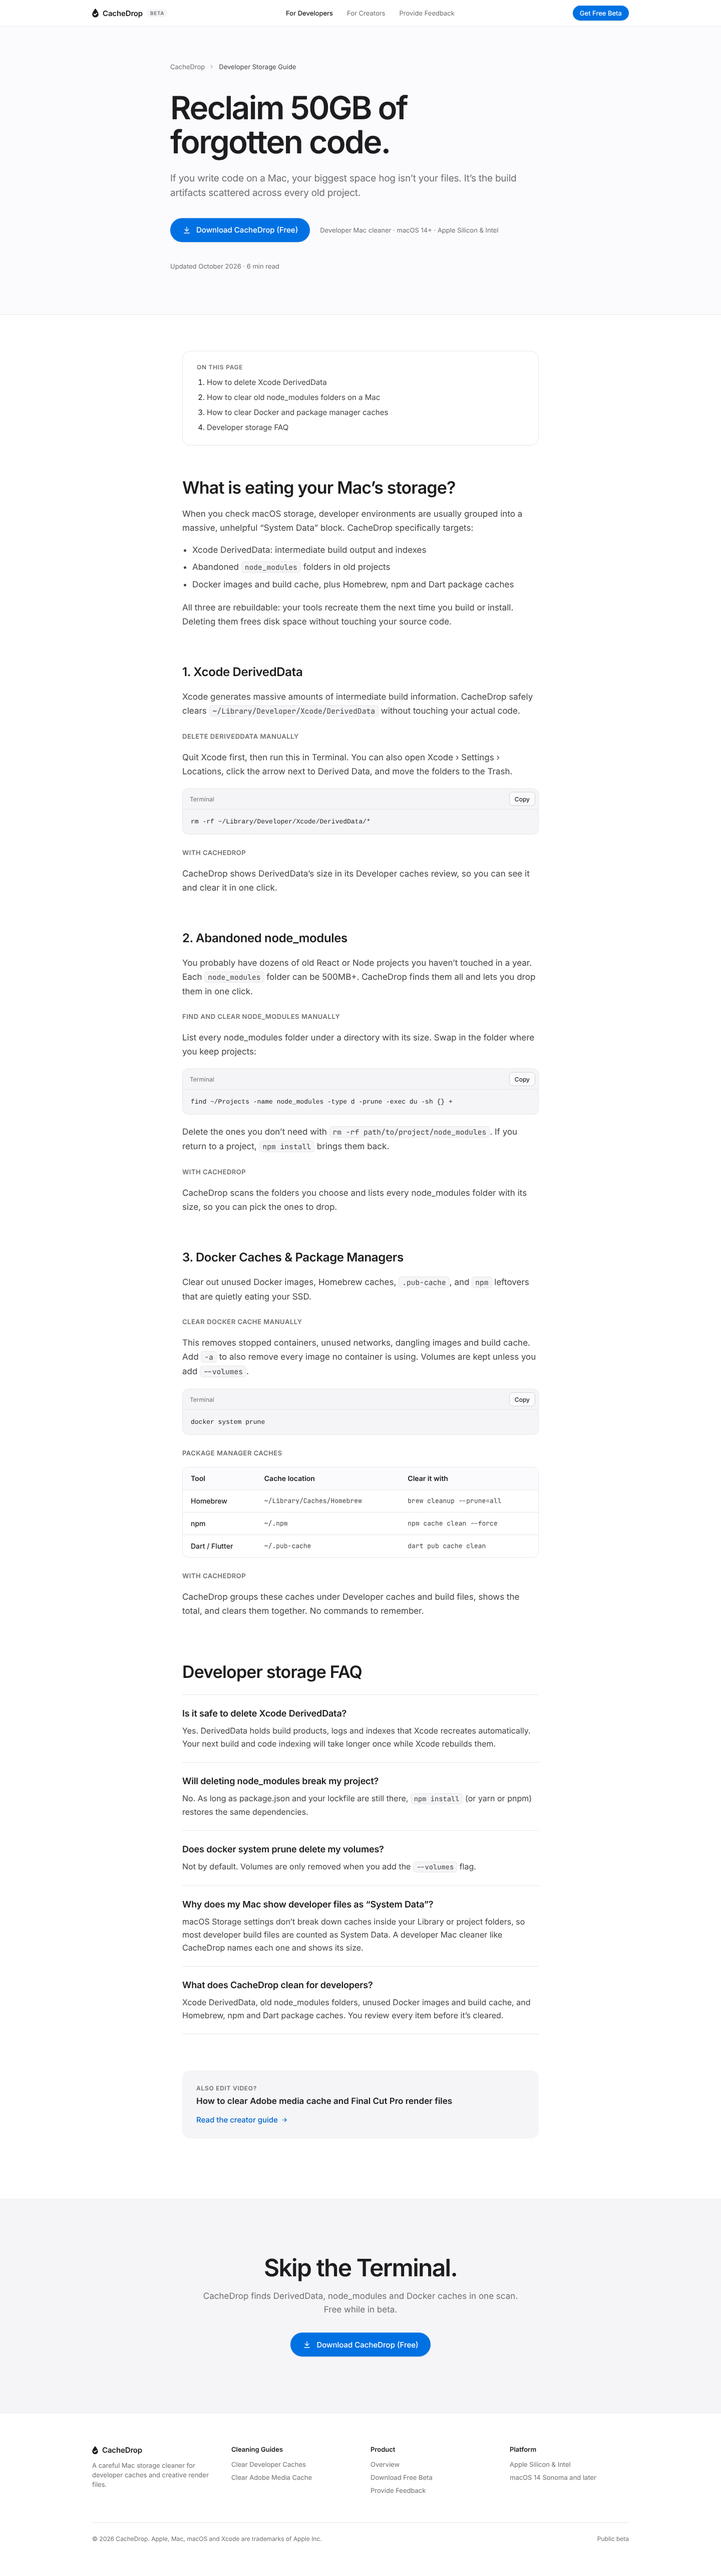
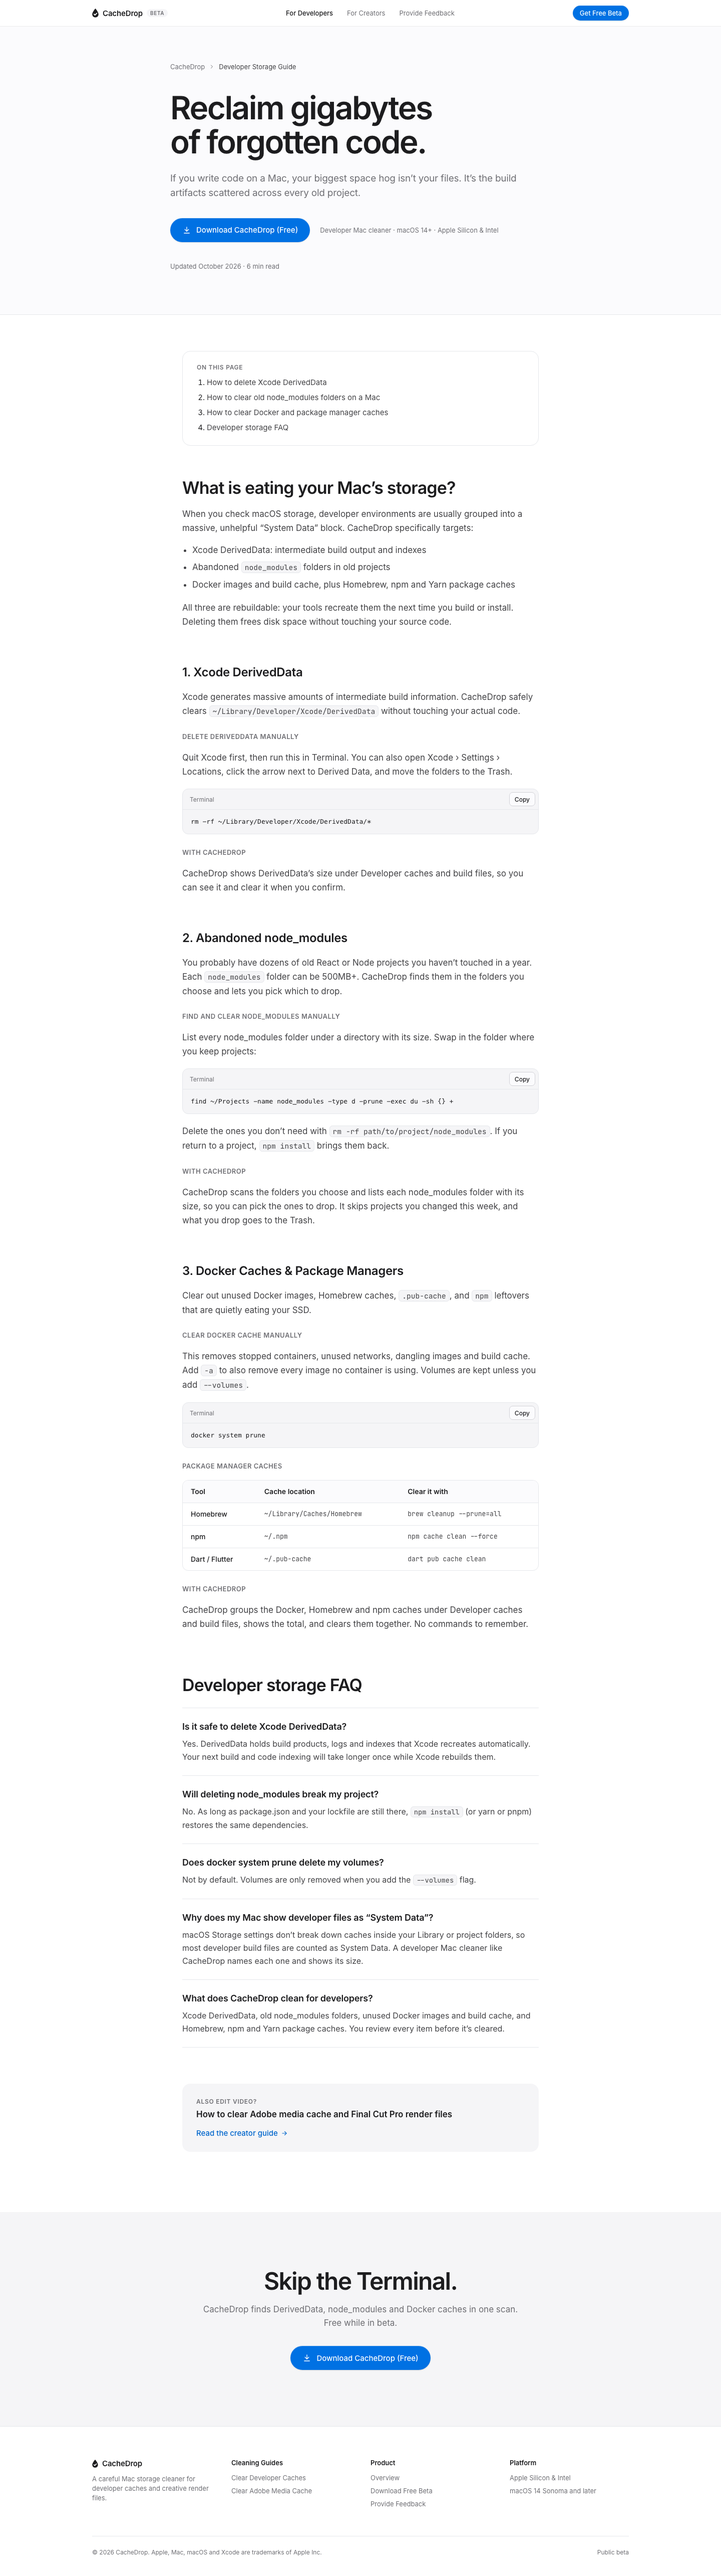
Make the guides' claims match the app
Checked against mac-cleaner main (5bf77c7). The developer guide drops the
unbacked "50GB" and the Dart cache the app doesn't clean, names the real
"Developer caches and build files" group, and says node_modules are found in
folders you choose, skip projects changed this week and go to the Trash. The
creator guide says the app clears the media cache Adobe's video apps share (no
Photoshop, no per-version scan) and only lists Final Cut Pro libraries with
their size, and replaces the unsupported "open version only" note with
Adobe's own advice. The Premiere menu path is true as written, so the Updated
line, dateModified and sitemap lastmod stay at October 2026.

The guide reference renders are re-rendered from the handoff pages with these
fixes applied. The originals didn't match their own handoff HTML in Chromium
(1 to 3% of pixels, a few-pixel drift), locally or on the macOS CI runner.

Claude-Session: https://claude.ai/code/session_01K3hKP5mUJtUGDnSeBLJMpc

diff --git a/tests/copy-fixes.ts b/tests/copy-fixes.ts
@@ -65,6 +65,71 @@ export const copyFixes: Record<string, CopyFix[]> = {
       why: 'RESET.md Decision 3.',
     },
   ],
+  'clear-mac-developer-caches/index.html': [
+    {
+      from: 'Reclaim 50GB of forgotten code.',
+      to: 'Reclaim gigabytes of forgotten code.',
+      why: 'No measurement backs 50GB; the owner’s field scan found 3.5 GB of build folders and 17 GB of updater and package caches.',
+    },
+    {
+      from: 'Homebrew, npm and Dart package caches',
+      to: 'Homebrew, npm and Yarn package caches',
+      why: 'The app has no Dart or .pub-cache rule; it has npm, Yarn and Homebrew rules (Catalog.swift).',
+    },
+    {
+      from: 'CacheDrop shows DerivedData’s size in its Developer caches review, so you can see it and clear it in one click.',
+      to: 'CacheDrop shows DerivedData’s size under Developer caches and build files, so you can see it and clear it when you confirm.',
+      why: 'The category is “Developer caches and build files” (CatalogCleanup.swift); cleaning goes through a confirmed review.',
+    },
+    {
+      from: 'CacheDrop finds them all and lets you drop them in one click.',
+      to: 'CacheDrop finds them in the folders you choose and lets you pick which to drop.',
+      why: 'Build folders are found only in folders added under Locations & access and are ticked one by one (ProjectBuilds.swift).',
+    },
+    {
+      from: 'lists every node_modules folder with its size, so you can pick the ones to drop.',
+      to: 'lists each node_modules folder with its size, so you can pick the ones to drop. It skips projects you changed this week, and what you drop goes to the Trash.',
+      why: 'Projects changed in the last 7 days are held, and build folders are moved to the Trash (ProjectBuilds.swift).',
+    },
+    {
+      from: 'CacheDrop groups these caches under Developer caches',
+      to: 'CacheDrop groups the Docker, Homebrew and npm caches under Developer caches',
+      why: '“These caches” included Dart’s .pub-cache, which the app doesn’t clean.',
+    },
+  ],
+  'clear-adobe-media-cache-mac/index.html': [
+    {
+      from: 'Note: This only deletes caches for the open version of Premiere.',
+      to: 'Note: Adobe suggests doing this right after you start Premiere, before you open a project.',
+      why: 'Adobe documents the cache as one shared folder, not per version; its help says to delete all files right after starting Premiere.',
+    },
+    {
+      from: 'CacheDrop scans your entire Library for every version of Adobe Premiere, After Effects, and Photoshop you’ve ever installed, and drops the caches in one click.',
+      to: 'CacheDrop finds the media cache that Premiere Pro, After Effects and Media Encoder share, and clears it when you confirm. No need to open Premiere.',
+      why: 'One rule covers the shared Adobe/Common media cache; there is no Photoshop rule and no per-version scan (AppDataCaches.swift).',
+    },
+    {
+      from: 'CacheDrop safely analyzes your FCPX libraries and lets you strip out the heavy render files while keeping your project timeline intact.',
+      to: 'CacheDrop finds your FCPX libraries, shows how much space each one takes, and points you to the Final Cut command that strips out the render files.',
+      why: 'Final Cut Pro libraries are guidance only: sized whole, never changed (GuidanceCatalog.swift).',
+    },
+    { from: 'Clear them with CacheDrop', to: 'Find them with CacheDrop', why: 'As above.' },
+    {
+      from: 'CacheDrop lists the render files in each library it finds, with their size. Clear the heavy ones and your timelines, media and edits stay exactly as they were.',
+      to: 'CacheDrop lists each Final Cut Pro library it finds with its size, so you know which ones to clean in Final Cut. It never changes a library itself.',
+      why: 'As above.',
+    },
+    {
+      from: 'Adobe Premiere Pro, After Effects and Photoshop (every installed version), plus Final Cut Pro render files.',
+      to: 'Adobe Premiere Pro, After Effects and Media Encoder, which share one media cache. For Final Cut Pro, it shows each library’s size and how to delete its render files in Final Cut.',
+      why: 'AppDataCaches.swift and GuidanceCatalog.swift.',
+    },
+    {
+      from: 'Adobe media cache and Final Cut Pro render files in one scan',
+      to: 'Adobe media cache and your Final Cut Pro libraries in one scan',
+      why: 'As above.',
+    },
+  ],
 };
 
 /** The handoff page with its agreed copy fixes applied. Throws when a fix no longer matches, so a stale entry can't pass silently. */
